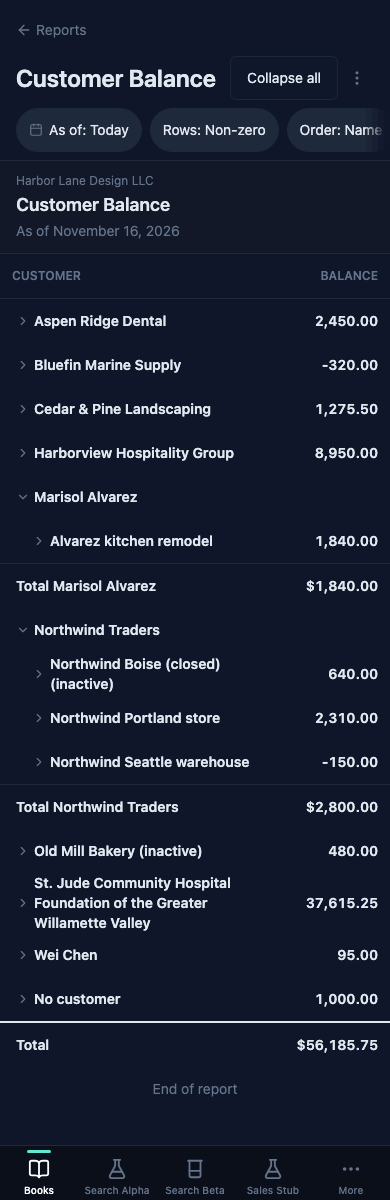
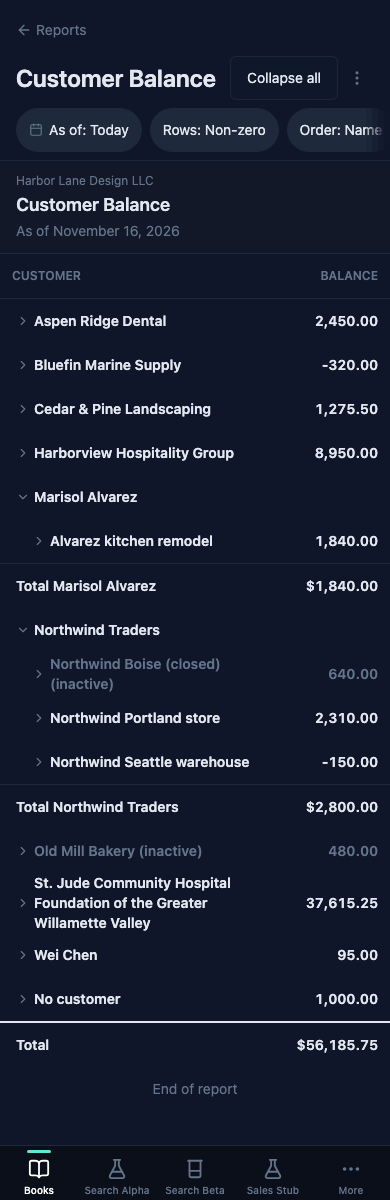
chore(books): customer-balance checkpoint 0 — fixture on core ResultRow, reference re-captured with muted rows, ledger

diff --git a/tinycld/books/lib/customer-balance-fixture.ts b/tinycld/books/lib/customer-balance-fixture.ts
@@ -23,10 +23,6 @@ const CURRENCY = 'USD'
 const NO_CUSTOMER_LABEL = 'No customer'
 const INACTIVE_SUFFIX = ' (inactive)'
 
-// Core checkpoint 0 (R2, `groups[].muted`) adds `muted` to core's `ResultRow`. That
-// checkpoint must replace this type with `ResultRow`.
-export type CustomerBalanceRow = ResultRow & { muted?: boolean }
-
 export type RowsChoice = 'nonzero' | 'activity'
 export type OrderChoice = 'name' | 'balance'
 
@@ -282,7 +278,7 @@ const groupId = (key: string[]) => `g:${JSON.stringify([...key, CURRENCY])}`
 const memberLabel = (member: Member) =>
     member.inactive ? `${member.name}${INACTIVE_SUFFIX}` : member.name
 
-function lineRows(member: Member, section: string, depth: number): CustomerBalanceRow[] {
+function lineRows(member: Member, section: string, depth: number): ResultRow[] {
     return member.lines.map(line => ({
         id: `d:${line.id}`,
         kind: 'detail',
@@ -313,12 +309,12 @@ function memberRows(
     family: Family,
     depth: number,
     input: ResultInput
-): CustomerBalanceRow[] {
+): ResultRow[] {
     const key = [family.id, member.id]
     const isOpen = input.open?.includes(member.name) === true
     const section = depth === 0 ? {} : { section: groupId([family.id]) }
     const label = memberLabel(member)
-    const row: CustomerBalanceRow = {
+    const row: ResultRow = {
         id: groupId(key),
         kind: 'group',
         depth,
@@ -334,11 +330,11 @@ function memberRows(
     return isOpen ? [row, ...lineRows(member, row.id, depth + 1)] : [row]
 }
 
-function familyRows(family: Family, input: ResultInput): CustomerBalanceRow[] {
+function familyRows(family: Family, input: ResultInput): ResultRow[] {
     if (isInlined(family)) return family.members.flatMap(m => memberRows(m, family, 0, input))
     const isFolded = input.folded?.includes(family.name) === true
     const total = familyTotal(family)
-    const header: CustomerBalanceRow = {
+    const header: ResultRow = {
         id: groupId([family.id]),
         kind: 'group',
         depth: 0,
@@ -396,7 +392,7 @@ function ordered(shown: Family[], order: OrderChoice): Family[] {
         }))
 }
 
-function totalRow(shown: Family[]): CustomerBalanceRow {
+function totalRow(shown: Family[]): ResultRow {
     return {
         id: `total:${JSON.stringify([CURRENCY])}`,
         kind: 'total',

diff --git a/docs/plans/customer-balance-ledger.md b/docs/plans/customer-balance-ledger.md
@@ -22,8 +22,17 @@
 ## Rebuttals
 
 ## Design notes
+- cp 0 · reviewer B: the core e2e describe title `customer-balance: inline and muted groups` (ordered by the plan rules) puts a Books report's name into core's `tests/e2e/reports-group-inline.spec.ts`; `check:core-isolation` passes (the feature slug is not a package slug), but it reads against "core names no package". The human may want a neutral title in core.
+- cp 0 · reviewer A: under an inline level the engine computes fill rows under every group whose parent is open, closed siblings included (fill.go `parentKeys` reads `mayShowUnder`; the exact form makes a circular CTE). Shown rows are unchanged (pinned by a Go test in the fix round); the cost is extra fill work on large reports.
+- cp 0 · populated/opened/with-activity/by-balance, dark: the muted rows (Old Mill Bakery, Northwind Boise (closed)) are the dimmest text in the table; readable, contrast of `text-muted-foreground` on the dark table background not measured.
+- cp 0 · all shots: no shot shows a red or error figure on a muted row (the fixture has none); "red and error figures keep their tone" is pinned only by the `figureTone` vitest.
+- cp 0 · opened-*: no muted customer is opened, so the transaction rows under a muted customer are not shown.
 
 ## Out-of-plan changes
+- cp 0 (core) `core/server/reports/alias.go`, `lookup.go`, `section_percent.go`: the spec walks gain `Inline` and `Muted` beside `Having`, so the two conditions get the key-alias, lookup and section-percent checks a having gets.
+- cp 0 (core) `core/server/reports/layout.go`: the computed union legs select `0 AS __inline, 0 AS __muted` so every leg has the same columns.
+- cp 0 (core) `core/server/reports/fill.go`: fill parent keys read `mayShowUnder` under an inline level (the exact form makes a circular CTE; see Design notes).
+- cp 0 (core) `core/server/reports/paging_test.go`: three `groupFingerprint` calls gain the new `""` argument (compile fix for the signature the checkpoint asked; no assertion changed).
 
 ## Phase notes
 - phase 1: unattended; intake at staging p5-customer-balance/intake.md.
@@ -43,3 +52,22 @@
     - Checkpoint 2: `receive-payment-form.spec.ts` (name fixed); e2e 8 makes the name order and the balance order differ by a second invoice; e2e 6 has no memo.
     - Checkpoint 3: the caller passes `headerAction` as `undefined` when there is no href; gate 1 runs the seven specs that press a `-new-header` button.
     - Notes not changed: Live is driven by one post in e2e (other causes by the topic list); e2e 6 and 7 are long flows.
+
+## Checkpoint 0
+- test writer: core `core/server/reports/inline_test.go`, `muted_test.go`, `core/reports/lib/__tests__/{spec,rows,statements-docs}.test.ts`, `core/reports/lib/builder/__tests__/{draft,formula-context}.test.ts`, `tests/e2e/reports-group-inline.spec.ts` (31 new tests, 1 extended); red for the right reason: 28 yes (Go build fails on `Row.Muted`; vitest refuses the new keys, `offersInline`/`showsInline`/`figureTone` missing; e2e times out on the missing `report-builder-group-0-inline`); 3 rows.test.ts cases (`visibleRows`, `toggleGroup`/`foldAllTarget`, `muted` pass-through over an inlined row tree) are green before the code because `rows.ts` already reads `level`/`groupKey` and passes row fields through — kept as regression pins; untestable: none
+  - plan correction: the Produces block says refusals are 422; the engine answers an invalid spec with 400 (`spec.go:450` "Status is 400 for an invalid spec and 422 [for one that names something that does not exist]"; `having_test.go:198` asserts 400). The tests assert 400 — the test writer is right.
+- implementer: two dispatches split by layer, in parallel: Go engine (`cp0-impl-go.md`: spec/bind/rows/levels/run/assemble/paging, new CTE `il<L>` with the two 0/1 values; DONE) and client (`cp0-impl-client.md`: spec.ts, types.ts, rows.ts `figureTone`/`isMutedGroup`, draft.ts, `GroupInline`/`GroupMuted` over one shared `LevelCondition`, ReportRow, help, docs/packages.md; DONE). Step 13 code part (fixture retyped to `ResultRow`, `CustomerBalanceRow` removed) by a third dispatch (`cp0-impl-fixture.md`; DONE).
+- test disputes: 2, both from the client implementer, both ruled for the implementer and fixed by a fresh test writer: (1) a hand-built group level draft in draft.test.ts lacked `inline`/`muted` — Do step 6: "`inline: filterGroupSchema` and `muted: filterGroupSchema` on `groupLevelSchema`"; (2) draft.test.ts "offers no total-up-to level that an inline or muted would read blank" expected `['byTeam']` on a three-level spec — Do step 6: "the client refuses what the server's `blankAboveHavings` refuses", and bind.go `blankRead(node, gi+1)` trips at Team and at Customer → `['byTeam','byCustomer']`.
+- self-declared differences: Go — (1) 400 not 422 (settled); (2) fill parent keys read the loose `mayShowUnder` under an inline level (exact form makes a circular CTE), extra fill rows under closed siblings, shown rows unchanged; (3) inline flags enter the cursor fingerprint only when a level has `inline` (existing cursors byte-identical); (4) conditions computed in a new CTE `il<L>`; (5) out-of-plan alias.go, lookup.go, section_percent.go, layout.go, fill.go; (6) extra refusal "a running value or a percent is not a condition on a group" (as `having`). Client — (1) one private `LevelCondition` behind `GroupHaving`/`GroupInline`/`GroupMuted`; (2) `isMutedGroup` mutes only `kind === 'group'`; (3) the "not offered" inline refusal sits in `levelFieldIssues`, condition problems only where offered; (4) docs also name inline/muted in the `blankAbove` row and the help's Totals paragraph.
+- gate 1: tests unedited: yes (`git diff` empty on the test files) · pass: `pnpm run checks`, core `tinycld-pkg check`, `go test ./reports/...`; core e2e one file each, all green: reports-group-inline (2), reports-groups-v2 (13), reports-paged-groups (5), reports-statements (3), reports-view (11), reports-export (5), reports-drill (7), reports-create (4), reports-group-pivot (5), reports-ledger-v3 (11), reports-period-pivot (5), reports-union-blank-above (1), reports-formula-layout (4), reports-wrap (16), reports-fit (1), reports-tab-order (1). Consumers (step 11): books `go test ./...` and `tinycld-pkg check` green; trial-balance (23), general-ledger (19), balance-sheet (20), journal-report (21), profit-and-loss green.
+- gate 3 A (correctness): 0 BLOCK, 5 NOTE, 2 DEFERRAL. NOTE 1 (out-of-plan files) → Out-of-plan changes; NOTE 2 (stale run.go shownLevels comment) accepted (one-line comment in a touched file) → fix item 7; NOTE 3 (no test of a fill under an inline level) accepted as weak-test → fix item 2; NOTE 4 (PDF export test weaker than the bullet "the Excel and PDF writers … list the same rows") accepted → fix item 3; NOTE 5 (phone muted tone not checked; not asked) → no action. Deferrals 1–2 → see reviewer-caught deferrals.
+- gate 3 B (conformance): script lines: 0 real, 1 false positive (`test.skip(skipWithoutReportsStub())`, required by the plan rules) · finding 1 (inline_test.go comment names the Books report) accepted → fix item 1; findings 2–6 (out-of-plan alias.go, lookup.go, section_percent.go, layout.go, paging_test.go) accepted as needed → Out-of-plan changes; finding 7 (fill.go untested) accepted → fix item 2; finding 8 (one-shot `boundingBox` in the e2e) accepted → fix item 4; note on the describe title → Design notes.
+- reviewer-caught deferrals: 2, found by reviewers A and B both, not self-declared by the test writer: the phone e2e asserts no phone-layout element after the resize, and its sideways-scroll check measures the outer `report-table` View, not the scroller — both asked by the checkpoint text, not genuine blockers → fixed now (fix items 5, 6).
+- fix round (`cp0-fix.md`, 7 items: 6 to a fresh test writer, 1 to a fresh implementer): inline_test.go comment made fictional; new `TestInlineFillBelowAnInlinedLevel` (closed and open; green on the engine as built); `TestInlineExport` compares the PDF's rows with every group open; the e2e polls x positions after `waitForTableFit`, waits for a phone-only element after the resize, and measures `listScroller` and the page width; run.go `shownLevels` drops the unused `groupConditions()` call and its stale comment. Causes: conformance 1, weak-test 5, other: stale comment 1.
+- gate 1 again: `pnpm run checks`, core `tinycld-pkg check`, `go test ./reports/...`, reports-group-inline.spec.ts (2) green. Consumers, rest of step 11: books-sales-tax-liability (23), report-drill-down (19), report-drill-panel (12), report-drill-phone (11), report-exports (13), audit-log (12), audit-log-access (4), audit-log-history (15), audit-log-panel (12), audit-log-phone (12) green. No Books fix was needed.
+- fix review: round 1: clean (`cp0-fix-review.md`); 1 round.
+- gate 3 A notes: 1 under Design notes (fill under an inline level); reviewer B's title note also there.
+- commit: core d9c62490 (branch books/p5-customer-balance, not pushed)
+- gate 2 (step 13, books side): fixture retyped (`ResultRow`), whole capture manifest run again from the books root (20 passed); the five states `populated`, `opened`, `collapsed`, `with-activity`, `by-balance` (24 files) changed; `loading-1280-dark.png` also re-rendered with no intended change and was restored. Critic (`docs/plans/customer-balance-evidence/cp0/critique.md`): invalid shots: none · blocking: none · notes: 3, listed under Design notes. The pre-checkpoint shots for comparison are in staging `cp/cp0-before/` (not in the repo).
+- books side committed now, not with checkpoint 1 (the plan said checkpoint 1): the fixture, the 24 shots, the critique and this ledger are cp0's own output, and a fresh checkpoint-1 runner would otherwise find them as unexplained tree changes and as out-of-plan files in its gate-3 input.
+- human: none (review mode C)

diff --git a/docs/plans/customer-balance-evidence/cp0/critique.md b/docs/plans/customer-balance-evidence/cp0/critique.md
@@ -1,0 +1,83 @@
+# Gate 2 critique: customer-balance, checkpoint 0 (core group inline and muted)
+
+Judged: the 24 shots in `docs/plans/customer-balance-reference/` (captured again on the core branch) against the same 24 names in `cp/cp0-before/` (approved at the design gate). All 48 images were read. Comparison is by eye; no pixel or contrast measurement was made.
+
+Result: 0 INVALID, 0 BLOCKING, 3 NOTE.
+
+## State check
+
+| shot | 1280 light | 1280 dark | 390 light | 390 dark | 375 light | 375 dark |
+|---|---|---|---|---|---|---|
+| populated | valid | valid | valid | valid | valid | valid |
+| opened | valid | valid | valid | valid | valid | valid |
+| collapsed | valid | valid | valid | valid | n/a | n/a |
+| with-activity | valid | valid | valid | valid | n/a | n/a |
+| by-balance | valid | valid | valid | valid | n/a | n/a |
+
+- populated: families open, customers closed, Rows: Non-zero, Order: Name.
+- opened: Aspen Ridge Dental, Harborview Kitchen, St. Jude Annual Spring Gala and No customer show their transaction rows.
+- collapsed: Harborview Hospitality Group and St. Jude are folded to one row with the family figure.
+- with-activity: chip "Rows: With activity"; Delta Freight Partners 0.00 and the Northwind Traders own row 0.00 show.
+- by-balance: chip "Order: Largest balance"; St. Jude first, Bluefin Marine Supply last.
+
+## What the checkpoint had to show
+
+Checked in each of the 24 shots:
+
+- Northwind Boise (closed) (inactive): label and figure (640.00) are muted. Yes, all shots.
+- Old Mill Bakery (inactive): label and figure (480.00) are muted. Yes, all shots.
+- Family headers (Northwind Traders, Harborview, Marisol Alvarez, St. Jude) stay in the normal tone. Yes.
+- Family totals (Total Northwind Traders $2,800.00 and the others) and the Total stay in the normal tone and weight. Yes. This agrees with spec §3: "A family total is never muted" and §4 R2: "Subtotal and total rows are never muted."
+- The muted row is readable in light and in dark, at 1280, 390 and 375, also where the label wraps to two lines on the phone ("Northwind Boise (closed) / (inactive)"). Yes.
+- Label and figure of a muted row have the same tone (spec §4 R2: "draws its label and figures in `text-muted-foreground`"). Yes.
+- Nothing else changed: toolbar, chips, document header, column header, row order, indents, wraps, row heights, dividers, the Total rule, the phone tab bar and every other figure are the same as in `cp0-before/`. No difference found.
+
+## Findings per shot
+
+- populated-1280-light: nothing found.
+- populated-1280-dark: see NOTE 1.
+- populated-390-light: nothing found.
+- populated-390-dark: see NOTE 1.
+- populated-375-light: nothing found.
+- populated-375-dark: see NOTE 1.
+- opened-1280-light: see NOTE 3.
+- opened-1280-dark: see NOTE 1, NOTE 3.
+- opened-390-light: see NOTE 3.
+- opened-390-dark: see NOTE 1, NOTE 3.
+- opened-375-light: see NOTE 3.
+- opened-375-dark: see NOTE 1, NOTE 3.
+- collapsed-1280-light: nothing found.
+- collapsed-1280-dark: see NOTE 1.
+- collapsed-390-light: nothing found.
+- collapsed-390-dark: see NOTE 1.
+- with-activity-1280-light: nothing found.
+- with-activity-1280-dark: see NOTE 1.
+- with-activity-390-light: nothing found.
+- with-activity-390-dark: see NOTE 1.
+- by-balance-1280-light: nothing found.
+- by-balance-1280-dark: see NOTE 1.
+- by-balance-390-light: nothing found.
+- by-balance-390-dark: see NOTE 1.
+
+All 24 shots: see NOTE 2 (a limit of the fixture, not a defect of a shot).
+
+### NOTE 1 — dark shots: the muted rows are the dimmest text in the table
+
+`*-dark`: rows "Northwind Boise (closed) (inactive)" and "Old Mill Bakery (inactive)" — the label, the figure and the row's chevron are clearly dimmer than in light mode in relation to their background. They are readable, and the tone looks the same as the app's other muted text on the screen ("As of November 16, 2026", "End of report"), so the token is used as the spec says. But this is semibold 15 px body text that carries a money figure, and by eye its contrast in dark is near the limit for body text. Recommended: measure the contrast of `text-muted-foreground` on the dark table background one time (4.5:1 for this size). If it is below, the fix is in the token, not in `ReportRow`. — NOTE (no measured value; the spec names this token).
+
+### NOTE 2 — all shots: no shot proves "red and error figures keep their tone"
+
+The fixture has no red figure. The credit balances (Bluefin Marine Supply -320.00, Northwind Seattle warehouse -150.00, the payments -1,000.00 and -3,000.00) draw in the normal foreground tone before and after, so they did not lose a tone. But neither muted row has a negative or red figure, so the rule of spec §4 R2 ("red and error figures keep their tone") on a muted row is not visible in any shot. It stays proven only by the `figureTone` unit test. Not a defect of the build. — NOTE.
+
+### NOTE 3 — opened shots: no muted customer is opened
+
+`opened-*`: the four opened rows are all active customers. The shots do not show how the transaction rows under a muted customer read (normal tone, per R2: only the group row is muted). Gate 2 of checkpoint 1 looks at the built row; open the Old Mill Bakery row there. — NOTE.
+
+## Seen, not findings of this checkpoint (same in `cp0-before/`)
+
+- `*-375-*`: the screen title truncates to "Customer Balan…".
+- `opened-390-*`: the last visible transaction row is cut by the tab bar (the capture height ends there; the list scrolls).
+
+## For gate 3
+
+Nothing visible.
